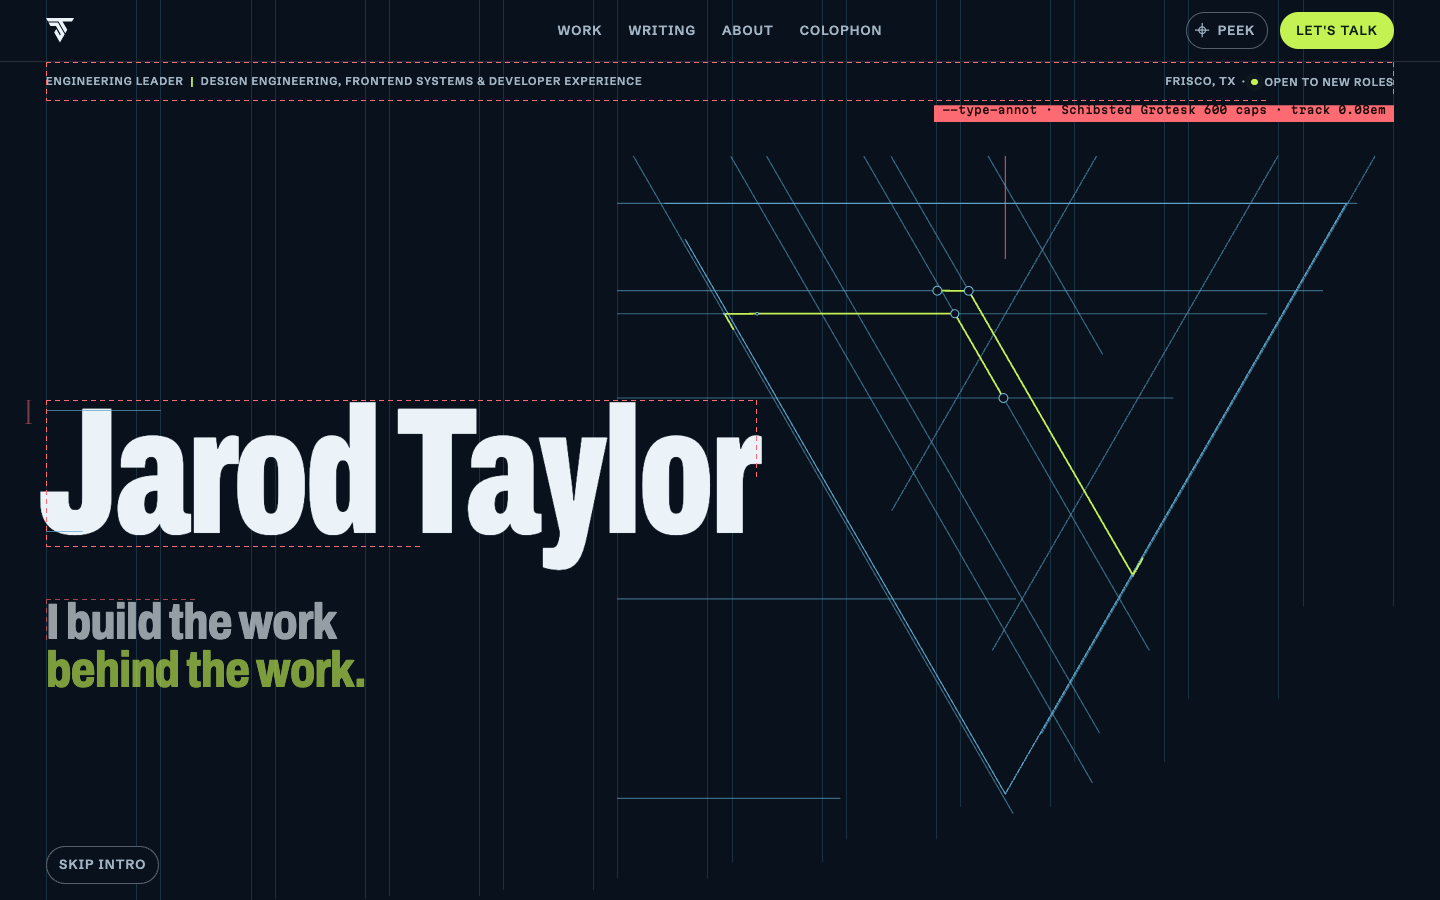
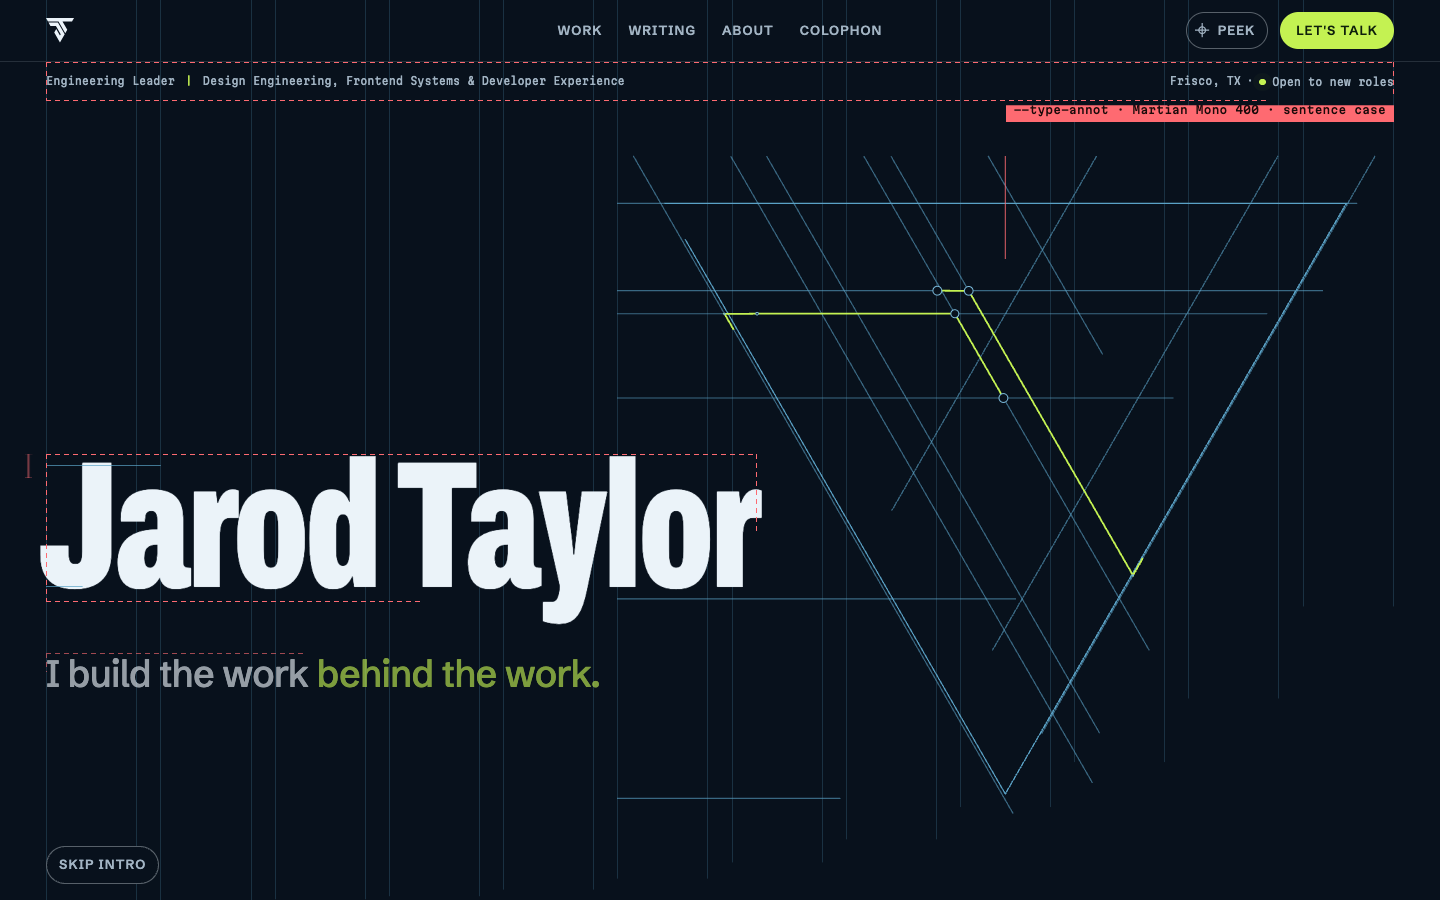
proto(r6-backstage): match R1 pairing: text-face one-line tagline, Martian Mono info strip and socials

Changed region(s): [[0.0312, 0.4356, 0.5312, 0.7778], [0.6562, 0.0622, 0.9688, 0.1556], [0.0312, 0.0622, 0.4375, 0.0933]]

diff --git a/prototypes/r6-backstage/styles.css b/prototypes/r6-backstage/styles.css
@@ -35,7 +35,7 @@
 
   /* Type: exactly three steps and one label. */
   --type-display: 35vw;
-  --type-lead: clamp(2rem, 8.6vw, 3rem);
+  --type-lead: clamp(1.625rem, 7vw, 2.25rem);
   --type-body: clamp(1.0625rem, 0.82rem + 0.42vw, 1.5rem);
   --type-label: clamp(0.75rem, 0.62rem + 0.22vw, 1rem);
   --type-annot: clamp(0.6875rem, 0.5rem + 0.2vw, 0.875rem); /* backstage only: the Peek layer's measurements */
@@ -97,7 +97,7 @@
     --cols: 12;
     /* One line of name, sized by whichever runs out first: width or height. */
     --type-display: min(12.5vw, 21svh);
-    --type-lead: min(3.5vw, 5.8svh);
+    --type-lead: min(2.6vw, 4.4svh);
   }
 }
 
@@ -381,14 +381,25 @@ main { display: grid; }
 .tagline {
   /* Clear the descender of the y: the name's line box is tighter than its glyphs. */
   margin-top: calc(var(--type-display) * 0.17 + var(--rhythm-tight));
-  font-family: var(--font-display);
+  font-family: var(--font-text);
   font-weight: var(--font-lead-wght);
-  font-stretch: var(--font-lead-wdth);
   font-size: var(--type-lead);
-  line-height: 0.95;
-  letter-spacing: -0.015em;
+  line-height: 1.1;
+  letter-spacing: -0.02em;
+  text-wrap: balance;
 }
-.tagline .hl { display: block; color: var(--color-accent); }
+.tagline .hl { color: var(--color-accent); }
+@media (min-width: 48rem) { .tagline { white-space: nowrap; } }
+
+/* Info strip and socials speak in the mono, sentence case: small, quiet, measured. */
+.info,
+.social {
+  font-family: var(--font-label);
+  font-weight: var(--font-label-wght);
+  font-stretch: var(--font-label-wdth);
+  letter-spacing: 0;
+  text-transform: none;
+}
 
 /* One rhythm down the block: the whole stack sits on the hero's floor, bottom left. */
 .bio { margin-top: var(--rhythm-tight); max-width: var(--measure); text-wrap: pretty; }

diff --git a/prototypes/r6-backstage/index.html b/prototypes/r6-backstage/index.html
@@ -72,7 +72,7 @@
       <a class="talk" href="mailto:contact@jarodtaylor.com">Let's talk</a>
     </header>
 
-    <p class="info" data-peek data-spec="--type-annot · {f} caps · track 0.08em">
+    <p class="info" data-peek data-spec="--type-annot · {f} · sentence case">
       <span class="role">Engineering Leader <span class="sep">|</span> Design Engineering, Frontend Systems &amp; Developer Experience</span>
       <span class="loc">Frisco, TX<span class="dot" aria-hidden="true">·</span><span class="status">Open to new roles</span></span>
     </p>
@@ -136,11 +136,11 @@
             </div>
           </div>
 
-          <p class="tagline" data-build data-peek data-spec="--type-lead · {f} · lh 0.95">I build the work <span class="hl">behind the work.</span></p>
+          <p class="tagline" data-build data-peek data-spec="--type-lead · {f} · lh 1.1">I build the work <span class="hl">behind the work.</span></p>
 
           <p class="bio" data-build data-peek data-spec="--type-body · {f} · measure 44ch">Designer turned engineer turned engineering leader. For 18 years I've built design systems, frontend platforms, and developer experience, and led the teams that build them.</p>
 
-          <ul class="social" data-build data-peek data-spec="--type-label · gap --space-6" aria-label="Elsewhere">
+          <ul class="social" data-build data-peek data-spec="--type-label · {f} · gap --space-6" aria-label="Elsewhere">
             <li><a href="https://linkedin.com/in/jarodtaylor">LinkedIn</a></li>
             <li><a href="https://github.com/jarodtaylor">GitHub</a></li>
             <li><a href="https://x.com/jarodtaylor">X</a></li>

diff --git a/prototypes/r6-backstage/fonts.css b/prototypes/r6-backstage/fonts.css
@@ -1,6 +1,6 @@
 /* The type pairing, and nothing else. Swap this file to change faces; styles.css only reads these properties.
-   Provisional pairing (round 5): Archivo (variable width) for display, Schibsted Grotesk for text,
-   Martian Mono for the Peek layer's measurements. The weight/width knobs are part of the pairing because they
+   Pairing R1 (font study): Archivo condensed for the name only, Schibsted Grotesk for text and the tagline,
+   Martian Mono for the info strip, socials and the Peek layer's measurements. The weight/width knobs are part of the pairing because they
    only mean something for these faces (a face without a wdth axis ignores the stretch). */
 @import url("https://fonts.googleapis.com/css2?family=Archivo:wdth,wght@62..125,100..900&family=Martian+Mono:wdth,wght@75..112.5,300..600&family=Schibsted+Grotesk:ital,wght@0,400..800;1,400..800&display=swap");
 
@@ -11,6 +11,7 @@
 
   --font-display-wght: 820;   /* the name */
   --font-display-wdth: 62%;
-  --font-lead-wght: 760;      /* the tagline: same face, a step wider and lighter */
-  --font-lead-wdth: 78%;
+  --font-lead-wght: 500;      /* the tagline, in the text face */
+  --font-label-wght: 400;     /* info strip and socials, in the mono */
+  --font-label-wdth: 87.5%;
 }
